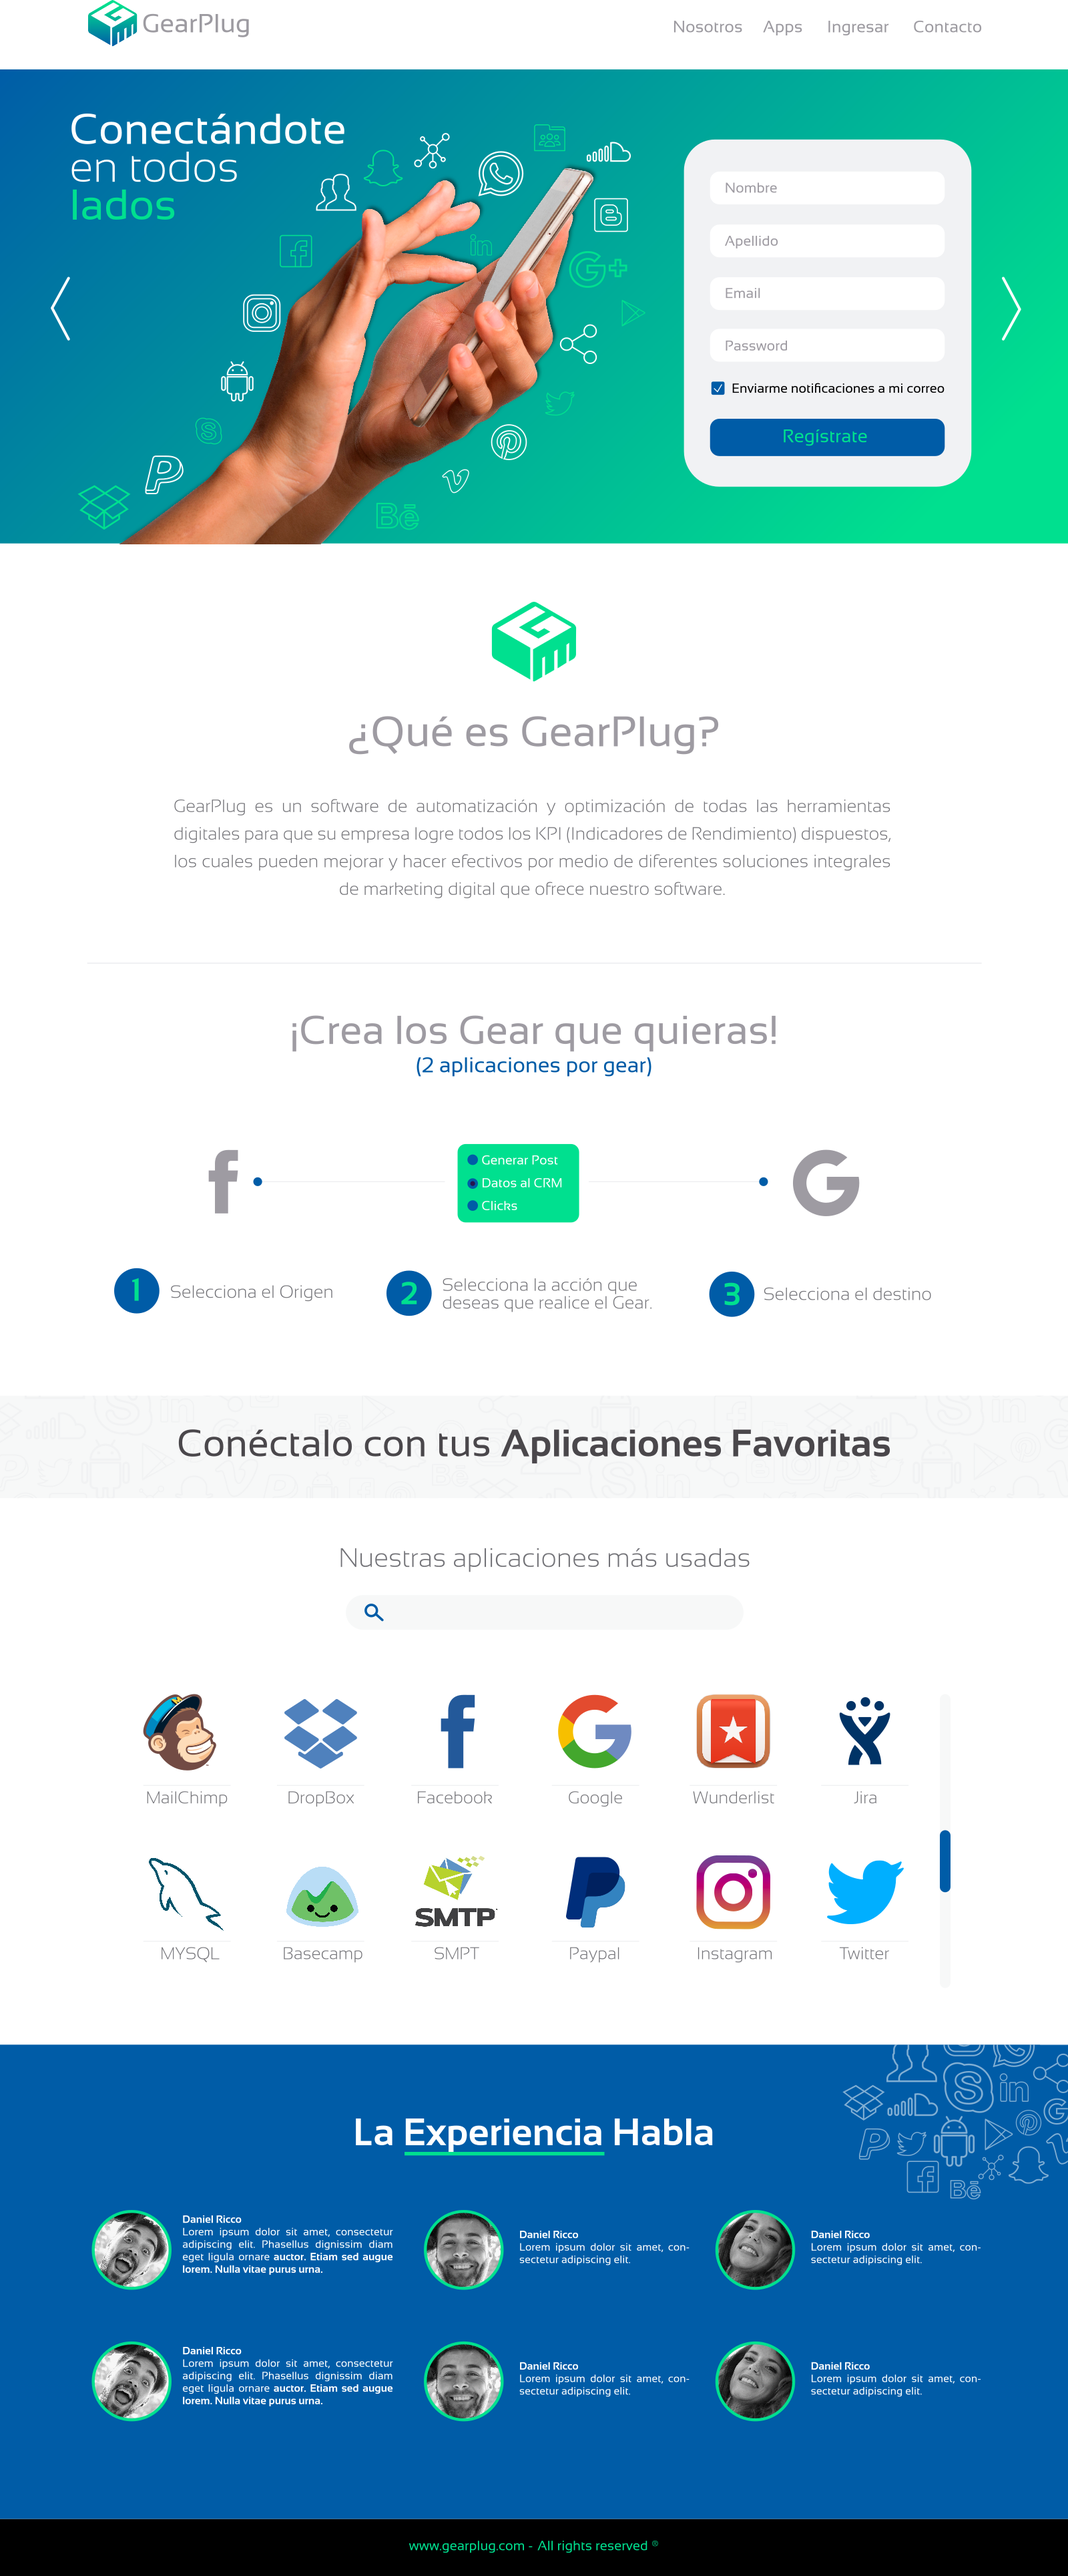
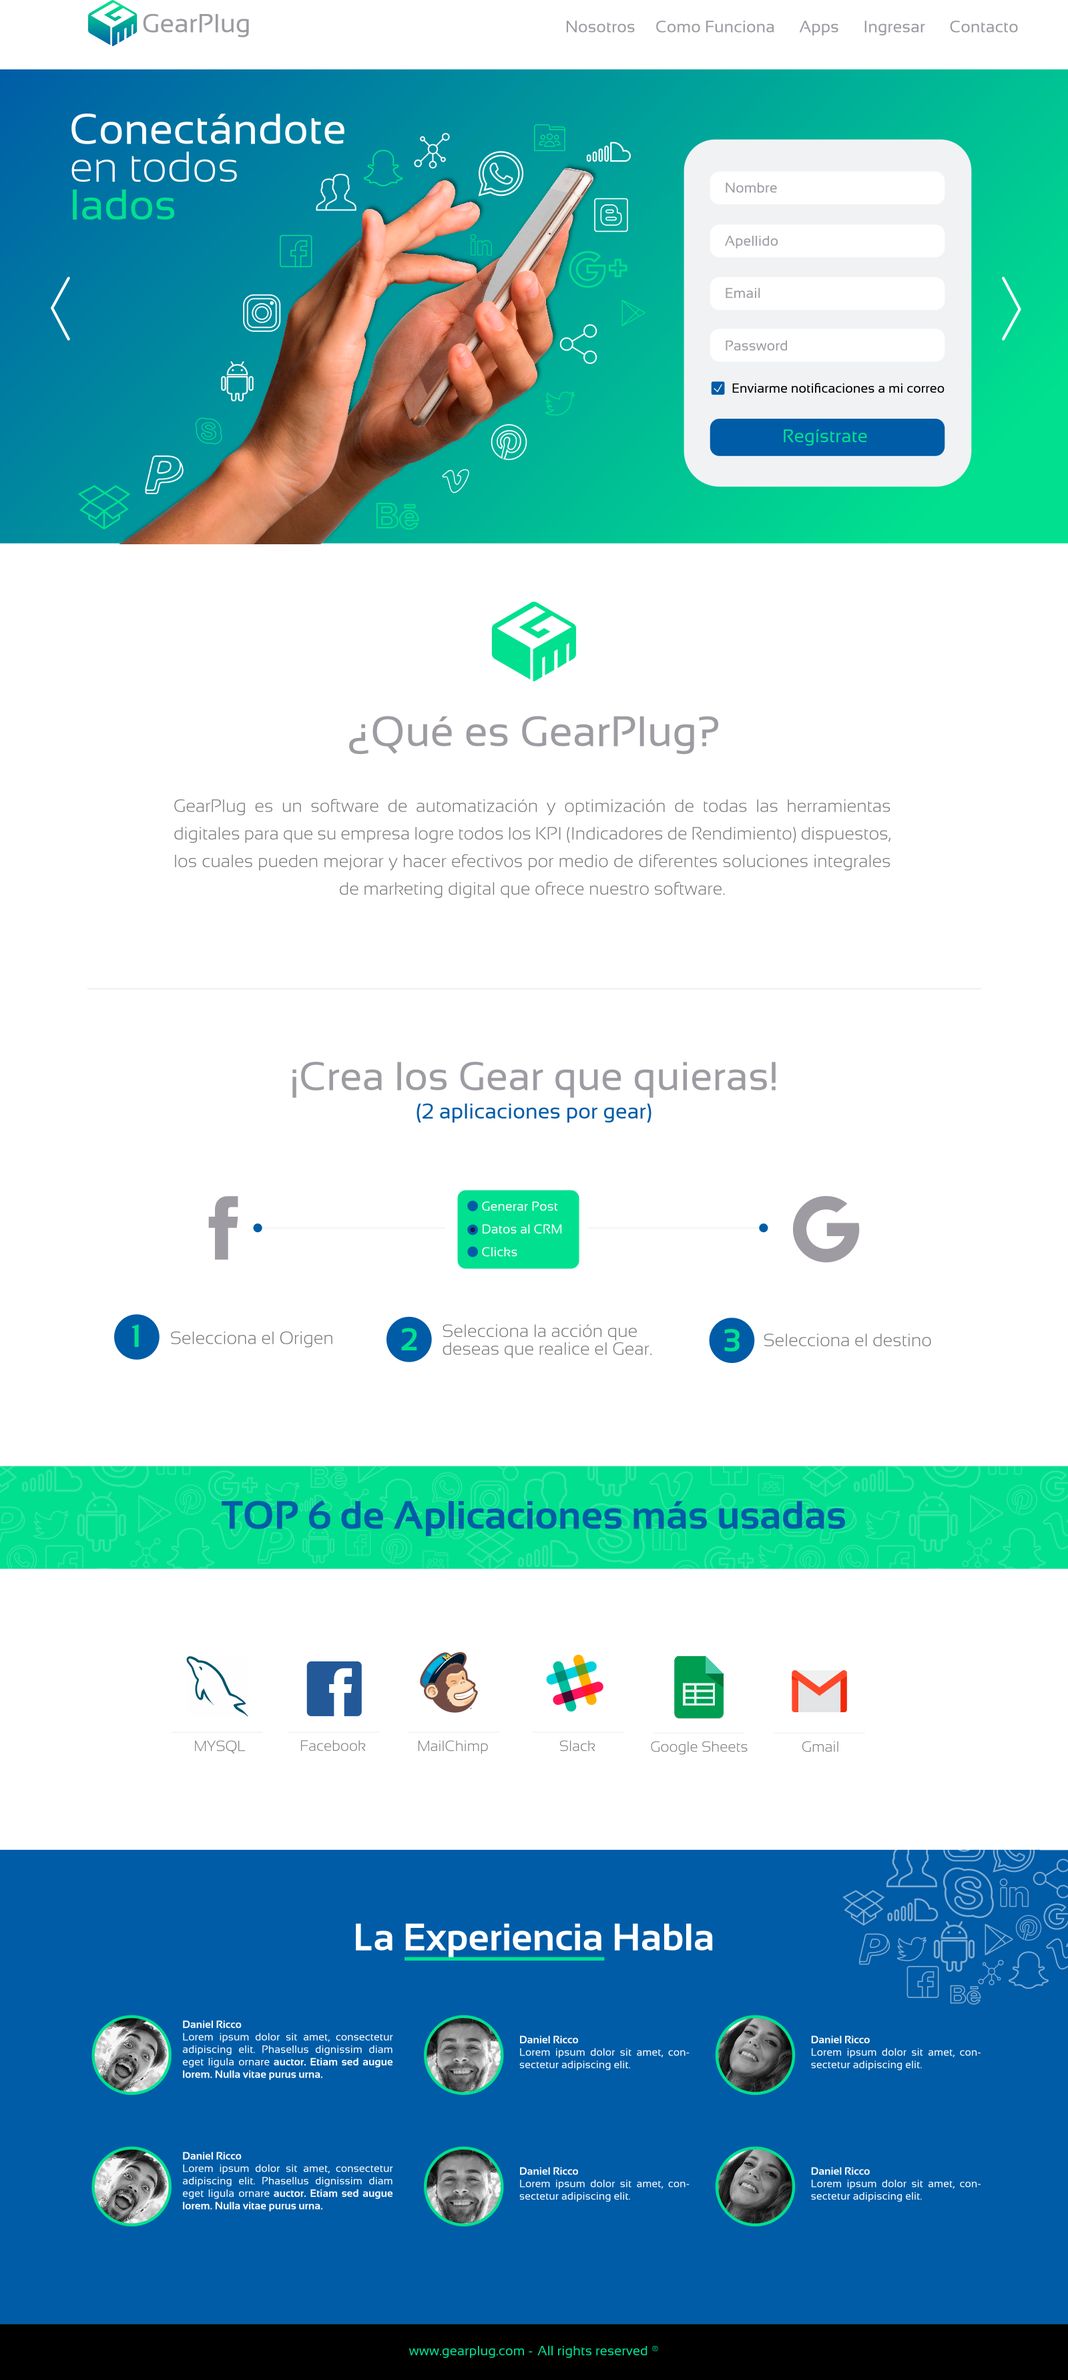
Cambios pendientes de landing - Botones, colores e imagenes

diff --git a/templates/layouts/page_base.html b/templates/layouts/page_base.html
@@ -1,5 +1,5 @@
 {% extends 'layouts/base.html' %}
-{% load static %}
+{% load static i18n %}
 
 
 {% block scripts %}
@@ -12,33 +12,24 @@
     <link href="{% static 'css/landing/contactus.css' %}" rel="stylesheet">
     <link href="{% static 'css/landing/apps.css' %}" rel="stylesheet">
 {% endblock %}
-{% block body_class %}{% endblock %}
+{% block body_class %}ayuda{% endblock %}
 {% block body_base %}
     <div class="content">
         {% block header_content %}
             <header>
                 <nav class="nav_spaces">
                     <div class="row">
-                        <div class="col-md-1"> &nbsp; </div>
-                        <div class="col-md-3">
+                        <div class="col-md-3 col-md-offset-1">
                             <a href="{% url 'landing:index' %}">
                                 <img src="{% static 'img/landing/logo_header.png' %}" class="img-responsive logo_header">
                             </a>
                         </div>
-                        <div class="col-md-3"> &nbsp; </div>
-                        <div class="col-md-4 text_menu text-center">
-                            <div class="col-md-3">
-                                <a href="{% url 'landing:about' %}">Nosotros</a>
-                            </div>
-                            <div class="col-md-3">
-                                <a href="{% url 'landing:apps_directory' %}">Apps</a>
-                            </div>
-                            <div class="col-md-3">
-                                <a href="#">Ingresar</a>
-                            </div>
-                            <div class="col-md-3">
-                                <a href="{% url 'landing:contact' %}">Contacto</a>
-                            </div>
+                        <div class="col-md-6 col-md-offset-2 text_menu">
+                                <a href="{% url 'landing:about' %}">{% trans 'Nosotros' %}</a>
+                                <a href="#">{% trans 'Como Funciona' %}</a>
+                                <a href="{% url 'landing:apps_directory' %}">{% trans 'Apps' %}</a>
+                                <a href="#">{% trans 'Ingresar' %}</a>
+                                <a href="{% url 'landing:contact' %}">{% trans 'Contacto' %}</a>
                         </div>
                         <div class="col-md-1"> &nbsp; </div>
                     </div>

diff --git a/templates/landing/index.html b/templates/landing/index.html
@@ -1,5 +1,5 @@
 {% extends 'layouts/page_base.html' %}
-{% load static %}
+{% load static i18n %}
 
 {% block content %}
     <div id="carousel-example-generic" class="carousel slide" data-ride="carousel">
@@ -7,9 +7,11 @@
             <div class="item active container-fluid slide-item">
                 <img src="{% static 'img/landing/slide1.png' %}" alt="First slide" class="slide">
                 <div class="carousel-caption slide-caption slide-text">
-                    Conectándote <br/>
-                    <span class="slide-text-light"> en todos </span> <br/>
-                    <span class="slide-color-aqua"> lados </span>
+                    {% blocktrans %}
+                        Conectándote <br/>
+                        <span class="slide-text-light"> en todos </span> <br/>
+                        <span class="slide-color-aqua"> lados </span>
+                    {% endblocktrans %}
                 </div>
             </div>
         </div>
@@ -41,7 +43,7 @@
     </div>
     <div class="col-md-12 index-space2"> &nbsp;</div>
     <div class="col-md-12 text-center">
-        <span class="text-what">¿Qué es GearPlug?</span>
+        <span class="text-what">{% trans '¿Qué es GearPlug?' %}</span>
         <br/>
         <p class="text-p">
             GearPlug es un software de automatización y optimización de todas las herramientas digitales para que su

diff --git a/staticfiles/css/landing/style_page.css b/staticfiles/css/landing/style_page.css
@@ -1,3 +1,4 @@
+.ayuda{ background: url(../../img/landing/plantilla.png) no-repeat scroll 50% 21px; }
 .bg_page{ background-color: white; }
 .row{
     margin: 0;
@@ -6,7 +7,7 @@
 .sp{ padding: 0; }
 
 /* Header */
-.nav_spaces{ margin: 20px 0 34px 0; }
+.nav_spaces{ margin: 1.12% 0 1.4% 0; }
 .logo_header{ display: inherit; }
 .text_menu{ padding-top: 23px; }
 .text_menu a{
@@ -14,6 +15,7 @@
     font-family: 'Sansation';
     font-size: 1.75em;
     letter-spacing: 0.3px;
+    padding-left: 3.5%;
     text-decoration: none;
 }
 

diff --git a/staticfiles/css/landing/index.css b/staticfiles/css/landing/index.css
@@ -37,7 +37,6 @@
     border-radius: 15px;
     -moz-border-radius: 15px;
     -webkit-border-radius: 15px;
-    /*border-style: none;*/
     border: 1px solid #F1F2F4;
     color: #9E9BA2;
     font-family: 'Sansation';
